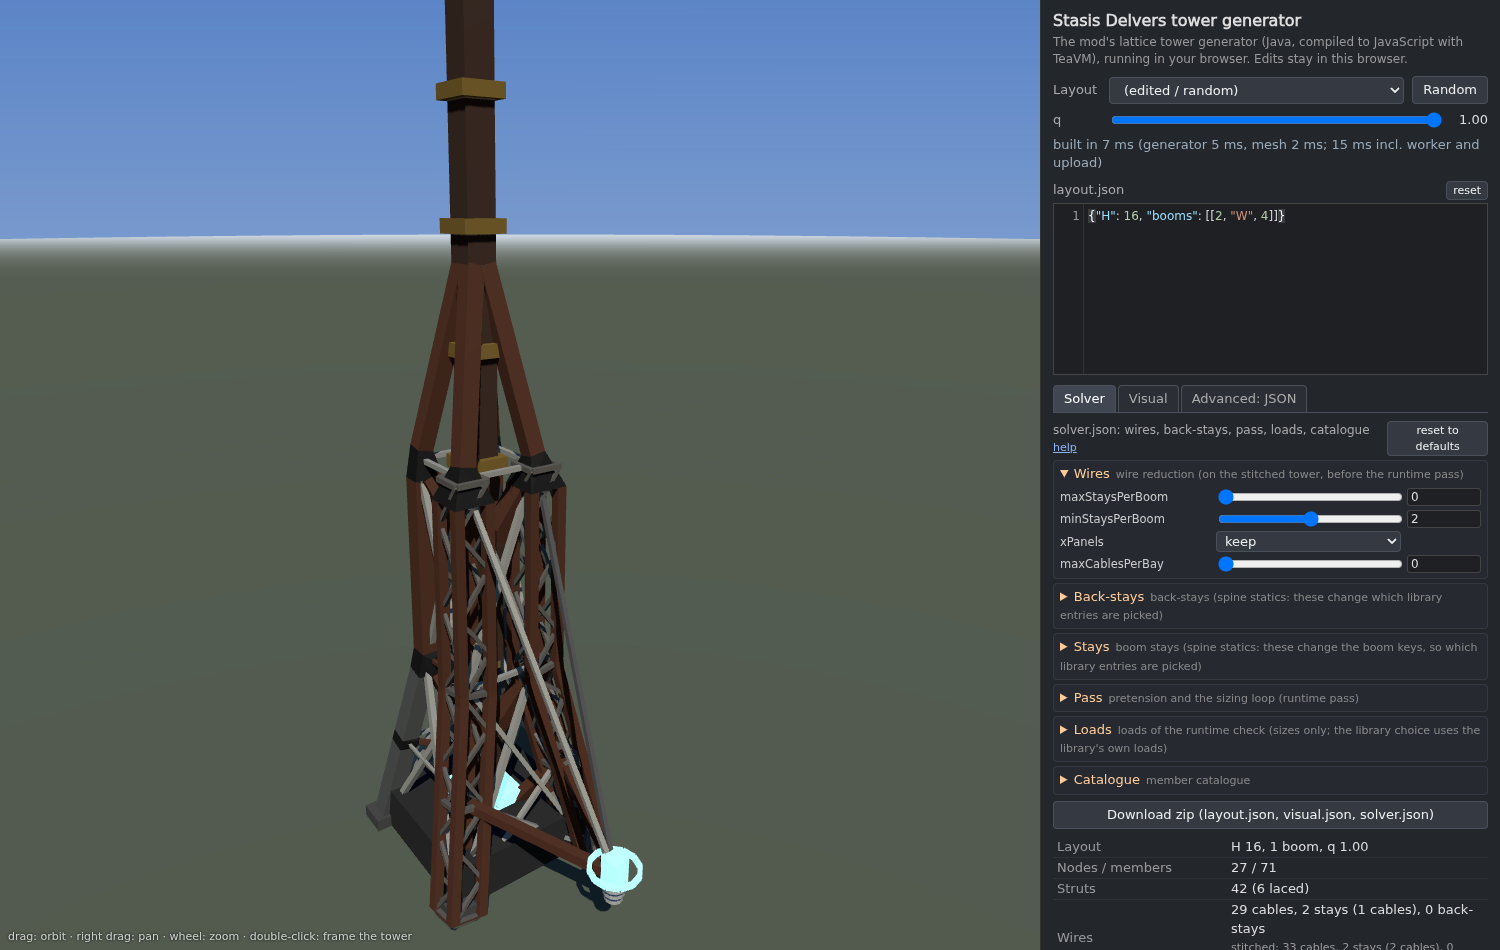
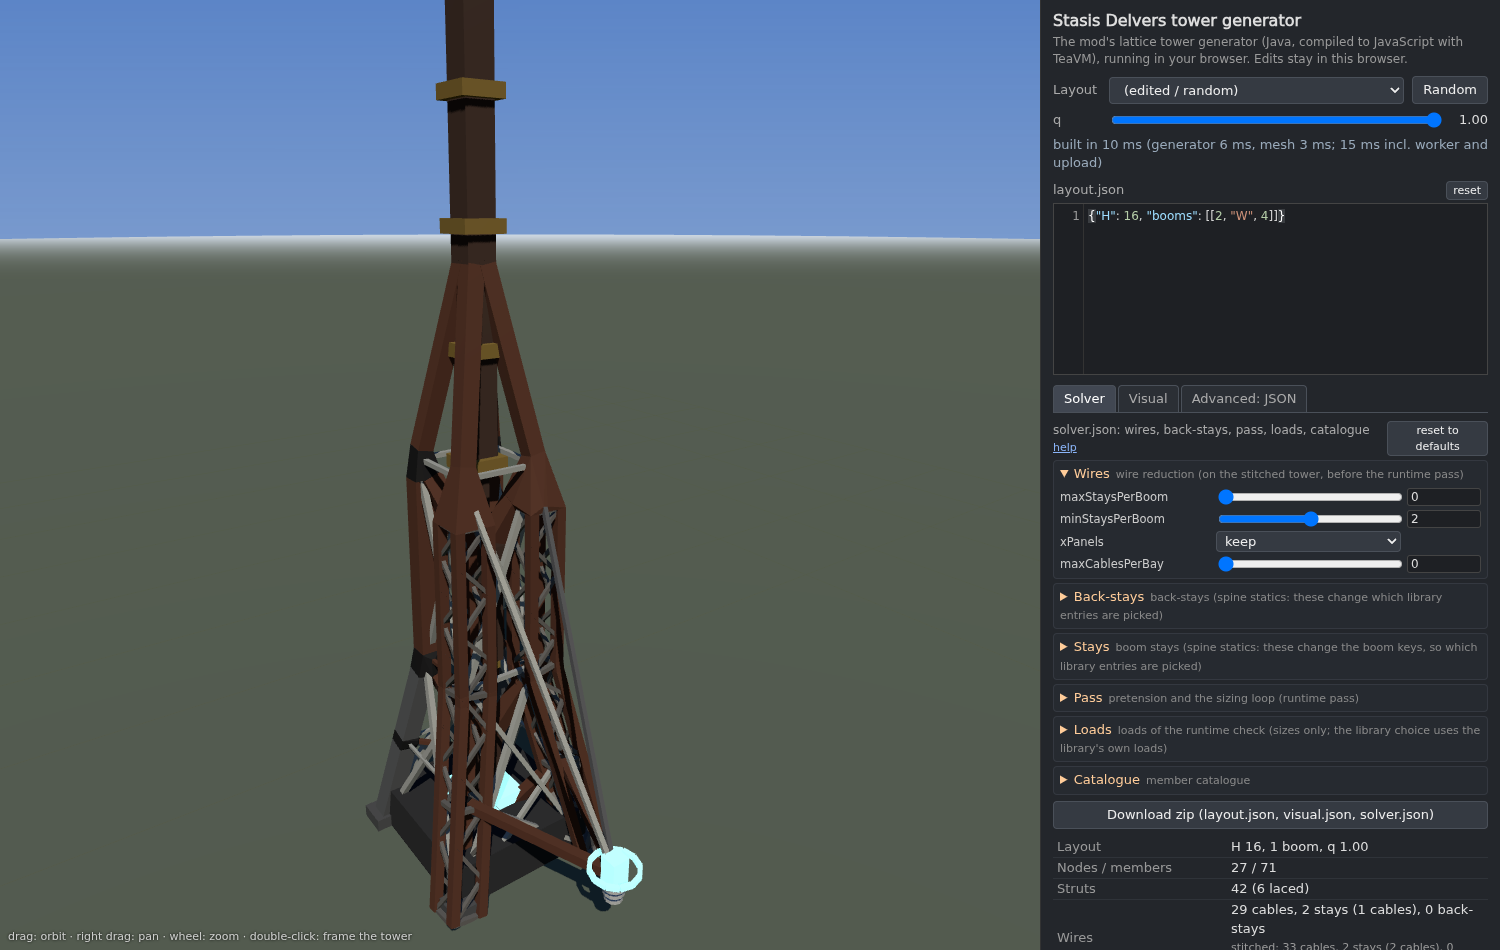
towergen mesh: laced members join branch nodes by their outer envelope (gusset joints), no chord-corner clumps
Every laced end that is not a chord-pair splice (Y / K / T, a laced member ending on another,
boom roots, free ends) takes part in the node joint by its outer section: setbacks on the
envelope, hub = hull of the envelope cut faces (a gusset block in the member's colour), chords
cut flat at the envelope setback, lacing and battens moved to the cut. Splices stay for a
continuing pair unless a wider laced member arrives (legs with laced bracing keep them).
- hull test over goldens + owner layouts + random counts spiky hub points (0 of 3.1 M)
- towerview shots branch / branchIn / nodeN / nodeNin; renders/contact_gusset_joints.png

Changed region(s): [[0.276, 0.4579, 0.3987, 0.7326]]

diff --git a/towergen/src/main/java/org/erisia/stasis/towergen/MeshBuilder.java b/towergen/src/main/java/org/erisia/stasis/towergen/MeshBuilder.java
@@ -55,6 +55,7 @@ public final class MeshBuilder {
         double e;              // the box starts at p + e d
         boolean sealed;
         double[][] pl, vt;     // prism planes / vertices (clearance), computed on demand
+        boolean envelope;      // a laced member's outer section (not drawn; its chords are cut at e)
 
         End(double[] p, double[] d, double[] sd, double a, double len, boolean cable, Part part) {
             this.p = p; this.d = d; this.sd = sd; this.a = a; this.len = len; this.cable = cable; this.part = part;
@@ -254,6 +255,26 @@ public final class MeshBuilder {
                 cont[2 * b2 + e2] = b;
             }
         }
+        // chord-pair splices only where the continuing pair is the main member at the node: no other laced member
+        // there is wider (a leg with laced bracing keeps its splices; the bracing joins the node's inner hull by its
+        // envelope, like solid bracing). Every other laced end (branch / Y / T where a wider member arrives, a laced
+        // member ending on another, boom roots, free ends) is an envelope end of the node joint (below).
+        double[] bOther = new double[2 * m];
+        for (int b = 0; b < m; b++) {
+            if (type[b] != LACED) continue;
+            for (int e = 0; e < 2; e++) {
+                int nd = e == 0 ? t.bi[b] : t.bj[b], b2 = cont[2 * b + e];
+                for (int b3 : at.get(nd)) if (type[b3] == LACED && b3 != b && b3 != b2) bOther[2 * b + e] = Math.max(bOther[2 * b + e], lg[b3].b);
+            }
+        }
+        for (int b = 0; b < m; b++) {
+            if (type[b] != LACED) continue;
+            for (int e = 0; e < 2; e++) {
+                int b2 = cont[2 * b + e];
+                if (b2 < 0) continue;
+                if (bOther[2 * b + e] > Math.min(lg[b].b, lg[b2].b) + 1e-9) { cont[2 * b + e] = -1; chordGrp[2 * b + e] = null; }
+            }
+        }
         for (int b = 0; b < m; b++) {
             if (type[b] != LACED) continue;
             lg[b].tap0 = cont[2 * b] < 0;
@@ -266,6 +287,7 @@ public final class MeshBuilder {
         List<Joint> chordHubs = new ArrayList<>();
         End[] mEnd = new End[2 * m];           // solid / pole / cable member ends
         End[][] cEnd = new End[2 * m][];       // laced chord ends
+        End[] envEnd = new End[2 * m];         // laced envelope ends (envelope joints)
         for (int b = 0; b < m; b++) {
             if (type[b] == SKIP) continue;
             for (int e = 0; e < 2; e++) {
@@ -280,11 +302,18 @@ public final class MeshBuilder {
                         joint(nodeHub, nd).env.add(new double[]{q[0], q[1], q[2], d[0], d[1], d[2], f[0][0], f[0][1], f[0][2],
                                 f[1][0], f[1][1], f[1][2], dw[b] / 2, len[b]});
                     }
-                    for (int k = 0; k < g.nc; k++) {
-                        End en = chordEnd(g, k, e, part[b]);
-                        cEnd[2 * b + e][k] = en;
-                        joint(nodeHub, nd).add(en);
-                    }
+                    // the member joins the node joint by its outer section: a square (frame of the axis) holding every
+                    // chord's section; its chords are cut where the envelope is
+                    double[] d = e == 0 ? ax[b] : V.mul(ax[b], -1);
+                    End env = new End(node(P, nd), d, ax[b], 0, len[b], false, part[b]);
+                    double aEnv = 0;
+                    for (int k = 0; k < g.nc; k++)
+                        aEnv = Math.max(aEnv, g.h * Math.max(Math.abs(V.dot(g.dir[k], env.u)), Math.abs(V.dot(g.dir[k], env.v))) + g.cw / 2);
+                    env = new End(node(P, nd), d, ax[b], aEnv, len[b], false, part[b]);
+                    env.envelope = true;
+                    envEnd[2 * b + e] = env;
+                    joint(nodeHub, nd).add(env);
+                    for (int k = 0; k < g.nc; k++) cEnd[2 * b + e][k] = chordEnd(g, k, e, part[b]);
                 } else {
                     double[] p = V.add(node(P, nd), off[b]);
                     End en = new End(p, e == 0 ? ax[b] : V.mul(ax[b], -1), ax[b], dw[b] / 2, len[b], type[b] == CABLE, part[b]);
@@ -326,6 +355,11 @@ public final class MeshBuilder {
         }
         for (int nd = 0; nd < n; nd++) if (nodeHub[nd] != null) solve(nodeHub[nd], sink);
         for (Joint hb : chordHubs) { solve(hb, sink); hb.part = hb.ends.get(0).part; }   // chord splices: a piece of chord
+        for (int k = 0; k < 2 * m; k++) {         // chords run straight to their envelope's cut
+            End env = envEnd[k];
+            if (env == null || !env.sealed) continue;
+            for (End ce : cEnd[k]) { ce.e = Math.min(env.e, 0.49 * ce.len); ce.sealed = true; }
+        }
 
         // --- members
         for (int b = 0; b < m; b++) {
@@ -583,7 +617,10 @@ public final class MeshBuilder {
             if (Math.abs(V.dot(en.d, w.d)) < 0.9986) through = false;
         }
         through |= pole;
-        jt.part = vp.jointMemberColour() || through ? w.part : Part.KNUCKLE;
+        boolean gusset = false;
+        for (End en : core) gusset |= en.envelope;
+        // hubs holding laced members are gusset blocks in the widest member's part
+        jt.part = vp.jointMemberColour() || through || gusset ? w.part : Part.KNUCKLE;
         if (sink != null) {
             JointInfo ji = new JointInfo();
             ji.hull = h;
@@ -764,15 +801,25 @@ public final class MeshBuilder {
         }
         double lw = Math.max(vp.lacingMinWidth(), vp.lacingWidthFrac() * cw);
         int npan = (int) Math.max(vp.lacingPanelsMin(), Math.min(vp.lacingPanelsMax(), Math.rint(g.L / Math.max(g.b * vp.lacingPanelPerWidth(), 0.3))));
+        // lacing and battens span the visible part: from the chords' cut at each end (gusset / splice hull face)
+        double tA = Math.min(0.45, cutFrac(end0, g)), tB = 1 - Math.min(0.45, cutFrac(end1, g));
         for (int fc = 0; fc < g.nc; fc++) {
             int oa = fc, ob = (fc + 1) % g.nc;
             for (int k = 0; k < npan; k++) {
-                double t0 = k / (double) npan, t1 = (k + 1) / (double) npan;
+                double t0 = tA + (tB - tA) * k / npan, t1 = tA + (tB - tA) * (k + 1) / npan;
                 mesh.beam(g.at(k % 2 == 0 ? oa : ob, t0), g.at(k % 2 == 0 ? ob : oa, t1), lw, Part.LACING);
             }
-            if (!skip0) mesh.beam(g.at(oa, 0), g.at(ob, 0), lw * vp.battenScale(), Part.LACING);
-            if (!skip1) mesh.beam(g.at(oa, 1), g.at(ob, 1), lw * vp.battenScale(), Part.LACING);
+            if (!skip0) mesh.beam(g.at(oa, tA), g.at(ob, tA), lw * vp.battenScale(), Part.LACING);
+            if (!skip1) mesh.beam(g.at(oa, tB), g.at(ob, tB), lw * vp.battenScale(), Part.LACING);
         }
+    }
+
+    /** Fraction of the member length cut off at one end (the smallest sealed chord cut; 0 if any chord is open). */
+    private static double cutFrac(End[] ends, Laced g) {
+        if (ends == null) return 0;
+        double f = 1e300;
+        for (End en : ends) { if (en == null || !en.sealed) return 0; f = Math.min(f, en.e / g.L); }
+        return f == 1e300 ? 0 : f;
     }
 
     /** Run-on at a bend from unit d1 to unit d2 for a square section of width w: (w/2) sqrt2 tan(theta/2). */

diff --git a/towergen/src/test/java/org/erisia/stasis/towergen/MeshTest.java b/towergen/src/test/java/org/erisia/stasis/towergen/MeshTest.java
@@ -102,7 +102,7 @@ class MeshTest {
     /**
      * Hull hubs: (1) every sealed member end (its cut face) lies inside its hull, so joints are closed; (2) no part of
      * a hub reaches beyond the union of its members' prisms (each run back through the node by its half-width) by
-     * more than 0.3 x the widest member there + 0.06 blocks (the fill between members): sampled at face centroids, edge
+     * more than 0.35 x the widest member there + 0.06 blocks (the fill between members; gusset blocks at K / Y nodes): sampled at face centroids, edge
      * midpoints and interior points of every hull face. Prints the measured worst case per layout.
      */
     @Test
@@ -110,11 +110,20 @@ class MeshTest {
         TowerGen g = new TowerGen(Library.shared());
         VisualParams vp = VisualParams.defaults();
         MeshBuilder mb = new MeshBuilder(g.c, vp);
-        double[][] bary = {{1 / 3.0, 1 / 3.0, 1 / 3.0}, {0.5, 0.5, 0}, {0, 0.5, 0.5}, {0.5, 0, 0.5}, {0.6, 0.2, 0.2},
+        double[][] bary = {{1, 0, 0}, {0, 1, 0}, {0, 0, 1}, {1 / 3.0, 1 / 3.0, 1 / 3.0}, {0.5, 0.5, 0}, {0, 0.5, 0.5}, {0.5, 0, 0.5}, {0.6, 0.2, 0.2},
                 {0.2, 0.6, 0.2}, {0.2, 0.2, 0.6}};
-        for (String nm : GOLDEN) {
+        java.util.LinkedHashMap<String, Layout> lays = new java.util.LinkedHashMap<>();
+        for (String nm : GOLDEN) lays.put(nm, Layout.read(java.nio.file.Path.of("layouts", nm + ".json")));
+        lays.put("H16W4@2", new Layout(16, List.of(new Layout.Boom(2, 2, 4))));
+        lays.put("H16W5@2", new Layout(16, List.of(new Layout.Boom(2, 2, 5))));
+        java.util.Random rng = new java.util.Random(99);
+        for (int k = 0; k < 25; k++) { Layout l = LayoutGen.randomBuildable(rng, g.c); lays.put("random" + k + " " + l, l); }
+        int spiky = 0, total = 0;
+        for (var le : lays.entrySet()) {
+            String nm = le.getKey();
             for (double q : new double[]{1.0, 0.3}) {
-                TowerGen.Result r = g.build(Layout.read(java.nio.file.Path.of("layouts", nm + ".json")), q);
+                TowerGen.Result r;
+                try { r = g.build(le.getValue(), q); } catch (RefusedException ex) { continue; }
                 List<MeshBuilder.JointInfo> js = new java.util.ArrayList<>();
                 mb.build(r.tower, r.analysis, js);
                 int hulls = 0, flat = 0, sealedEnds = 0;
@@ -136,8 +145,10 @@ class MeshTest {
                             for (int k = 0; k < 3; k++) for (int qq = 0; qq < 3; qq++) x[qq] += w[k] * h.xyz[3 * f[k] + qq];
                             double ex = 1e300;
                             for (double[] b : ji.boxes) ex = Math.min(ex, boxDist(b, x));
-                            double allow = 0.3 * ji.maxW + 0.06;
+                            double allow = 0.35 * ji.maxW + 0.06;
                             worst = Math.max(worst, ex);
+                            total++;
+                            if (ex > allow) spiky++;
                             if (ex / ji.maxW > worstRel && System.getProperty("meshDebug") != null) {
                                 System.out.println("DBGW " + nm + " q" + q + " x " + java.util.Arrays.toString(x) + " ex " + ex);
                                 for (double[] b : ji.boxes) System.out.println("DBGW box a " + b[12] + " len " + b[13] + " p " + b[0] + "," + b[1] + "," + b[2] + " d " + b[3] + "," + b[4] + "," + b[5]);
@@ -148,15 +159,18 @@ class MeshTest {
                                 for (double[] b : ji.boxes) System.out.println("DBG box " + java.util.Arrays.toString(b));
                                 for (int pi = 0; pi < h.n; pi++) System.out.println("DBG pt " + java.util.Arrays.toString(h.point(pi)));
                             }
-                            assertTrue(ex <= allow, nm + " q" + q + ": hub point " + java.util.Arrays.toString(x) + " is " + ex
+                            if (ex > allow) System.out.println("SPIKY " + nm + " q" + q + ": hub point " + java.util.Arrays.toString(x) + " is " + ex
                                     + " outside its members (max width " + ji.maxW + ")");
                         }
                     }
                 }
+                if (nm.startsWith("random")) continue;
                 System.out.printf("hull joints %s q%.1f: %d hulls, %d flat, %d sealed ends; worst excess %.4f blocks, %.3f x max width%n",
                         nm, q, hulls, flat, sealedEnds, worst, worstRel);
             }
         }
+        System.out.printf("hull joints: %d layouts x 2 q, %d hub points sampled (vertices, edge midpoints, face points), %d spiky%n", lays.size(), total, spiky);
+        assertEquals(0, spiky, "spiky hub points (beyond 0.35 x widest member + 0.06 outside the member envelopes)");
     }
 
     /** Mesh FNV hashes of the golden layouts (q 1, default params): compared with the web build's stats.meshHash. */
@@ -181,7 +195,8 @@ class MeshTest {
     /**
      * Laced members: chords run straight (every chord segment within 1 degree of the member axis, so no chord bends
      * inside a member) and inside the member's outer envelope; and every pair of laced members meeting at a node
-     * within 5 degrees of collinear is spliced (at least one of the two continues), never treated as two free ends. Goldens, the owner's
+     * within 5 degrees of collinear is spliced (at least one of the two continues) or, at a node with more than two laced ends, joins the gusset
+     * (envelope) joint; never two free ends. Goldens, the owner's
      * H16 W4/W5 boom-at-2 layouts and random layouts, q 1 and 0.3.
      */
     @Test
@@ -228,6 +243,8 @@ class MeshTest {
                         }
                     }
                 }
+                java.util.Map<Integer, Integer> nLaced = new java.util.HashMap<>();
+                for (MeshBuilder.LacedInfo x : li) { nLaced.merge(t.bi[x.member], 1, Integer::sum); nLaced.merge(t.bj[x.member], 1, Integer::sum); }
                 for (MeshBuilder.LacedInfo x : li) {
                     for (int e = 0; e < 2; e++) {
                         int nd = e == 0 ? t.bi[x.member] : t.bj[x.member];
@@ -240,7 +257,8 @@ class MeshTest {
                             int ycont = t.bi[y.member] == nd ? y.cont0 : y.cont1;
                             // at least one of the two continues (the other may be a third, overlapping member whose
                             // partner was taken by a more collinear one)
-                            if (c >= cos5) assertTrue(cont >= 0 || ycont >= 0, l + " q" + q + ": collinear laced members " + x.member + ", " + y.member + " at node " + nd + " not spliced");
+                            // (a pair is not spliced only where a wider laced member arrives: an envelope / gusset joint)
+                            if (c >= cos5) assertTrue(cont >= 0 || ycont >= 0 || nLaced.get(nd) > 2, l + " q" + q + ": collinear laced members " + x.member + ", " + y.member + " at node " + nd + " not spliced");
                             if (cont == y.member) { spliced++; maxBend = Math.max(maxBend, Math.toDegrees(Math.acos(Math.min(1, c)))); }
                         }
                     }

diff --git a/towerview/src/main/java/org/erisia/stasis/towerview/Main.java b/towerview/src/main/java/org/erisia/stasis/towerview/Main.java
@@ -28,7 +28,7 @@ import org.erisia.stasis.towergen.WireReduction;
 /**
  * towerview: standalone tower viewer.
  * <pre>
- *   towerview render LAYOUT.json [--q 1.0] [--out DIR] [--shots a215,a300,close,wide,legs] [--orbit N]
+ *   towerview render LAYOUT.json [--q 1.0] [--out DIR] [--shots a215,a300,close,wide,legs,nodeN,nodeNin] [--orbit N]
  *                    [--size 1280x720] [--ss 2] [--params visual.json] [--solver solver.json] [--name TAG]
  *                    [--lib library.json.gz]
  *   towerview view LAYOUT.json [--q 1.0] [--params visual.json] [--solver solver.json]   interactive window
@@ -153,7 +153,7 @@ public final class Main {
             double rl = Math.toRadians(215);
             out.put("legs", new Raster.Camera(new double[]{9 * Math.cos(rl), ym + 2, 9 * Math.sin(rl)}, new double[]{0, ym + 1, 0}, fov));
         }
-        jointCams(t, H, fov, out);
+        jointCams(t, H, fov, out, yb);
         return out;
     }
 
@@ -161,7 +161,7 @@ public final class Main {
      * Joint close-ups: "bjoint" a few blocks from an inner node of the first boom (about 40% out along it), "ljoint"
      * a few blocks outside a mast leg node with bracing near 0.3 H.
      */
-    static void jointCams(Stitch.Tower t, int H, double fov, Map<String, Raster.Camera> out) {
+    static void jointCams(Stitch.Tower t, int H, double fov, Map<String, Raster.Camera> out, double yb) {
         int n = t.n;
         int[] degBay = new int[n], degBoom0 = new int[n];
         boolean[] boomNode = new boolean[n];
@@ -214,6 +214,27 @@ public final class Main {
             if (s < best - 1e-9) { best = s; sp = i; }
         }
         if (sp >= 0) out.put("splice", jointCam(t.node(sp), 7.0, 1.5, 30, fov));
+        // "branch" / "branchIn": a node where laced members branch (3+ laced ends, or 2 bending > ~11 deg: Y / K / boom
+        // root), nearest the first boom level (the 0.3 H level without booms), from outside / inside
+        int[] nl = new int[n];
+        for (int b = 0; b < t.m; b++) if (t.kind[b] == 2) { nl[t.bi[b]]++; nl[t.bj[b]]++; }
+        int br = -1;
+        best = 1e30;
+        for (int i = 0; i < n; i++) {
+            if (nl[i] < 2) continue;
+            if (nl[i] == 2) {                         // two laced ends: a branch only if they bend by more than ~11 deg
+                int b1 = -1, b2 = -1;
+                for (int b = 0; b < t.m; b++) if (t.kind[b] == 2 && (t.bi[b] == i || t.bj[b] == i)) { if (b1 < 0) b1 = b; else b2 = b; }
+                double[] d1 = away(t, b1, i), d2 = away(t, b2, i);
+                if (d1[0] * d2[0] + d1[1] * d2[1] + d1[2] * d2[2] < -0.98) continue;
+            }
+            double s = Math.abs(t.P[3 * i + 1] - yb) + (t.P[3 * i] > 0 ? 0.5 : 0);   // nearest the first boom, west first
+            if (s < best - 1e-9) { best = s; br = i; }
+        }
+        if (br >= 0) {
+            out.put("branch", jointCam(t.node(br), 4.5, 1.2, 35, fov));
+            out.put("branchIn", jointCam(t.node(br), 3.0, 0.8, 160, fov));   // from inside the tower
+        }
     }
 
     /** Unit direction of member b away from its end node nd. */
@@ -263,6 +284,9 @@ public final class Main {
         for (String s : shots.split(",")) {
             if (s.isBlank()) continue;
             Raster.Camera cam = cams.get(s);
+            java.util.regex.Matcher nm = java.util.regex.Pattern.compile("node(\\d+)(in)?").matcher(s);
+            if (cam == null && nm.matches() && Integer.parseInt(nm.group(1)) < r.tower.n)    // close-up of one node
+                cam = jointCam(r.tower.node(Integer.parseInt(nm.group(1))), nm.group(2) != null ? 3.0 : 4.5, 1.0, nm.group(2) != null ? 160 : 35, vp.fovDeg());
             if (cam == null) { System.out.println("no camera " + s + " (have " + cams.keySet() + ")"); continue; }
             long t0 = System.nanoTime();
             BufferedImage img = ras.render(mesh, cam, s.startsWith("a") || s.equals("wide") ? cap : name + " q" + q + " " + s);

diff --git a/towergen/NOTES.md b/towergen/NOTES.md
@@ -123,6 +123,30 @@ Known limits:
 - Random (slowTest, 400 x 2 q, seed 7): 645 pass, 19 over the catalogue (now refused), 136 refused by the stay rule
   (was 769 pass / 31 over); no exceptions.
 
+## Laced members at branch nodes: envelope (gusset) joints (2026-10-13, owner report 2)
+- Report: H16 W4@2 / W5@2, lower west leg: a laced member ending at a node (Y: the laced leg ends where a solid leg
+  and a strut carry on) made a spiky clump: its chords went into the node hull one by one, so the hub was the hull
+  of scattered chord corners.
+- Fix (general, not a Y special case): every laced end that is not a chord-pair splice joins the node joint by its
+  **outer envelope** (a square in the axis frame holding all its chords' sections, i.e. b x b for 4 chords), as an
+  ordinary solid end: setbacks on the envelope against all neighbours (solid and laced envelopes), hull of the
+  envelope cut faces (a gusset block, in the widest member's colour rather than knuckle), and all its chords are cut
+  flat at the envelope's setback (straight, no bend; lacing and end battens move to the cut). Splices stay only for
+  the continuing pair when no wider laced member arrives at the node: a leg with laced bracing keeps its chord
+  splices, and the bracing joins the node's inner hull by its envelope, as solid bracing does (making every leg node
+  with laced bracing one envelope block turned H64max / H100 legs into solid slabs, so that variant was dropped).
+- Tests: `hullJointsClosedAndContained` now runs the goldens, both owner layouts and 25 random layouts at q 1 and
+  0.3, samples hull vertices, edge midpoints and face points, and asserts 0 "spiky" points (farther than 0.35 x the
+  widest member + 0.06 blocks outside every member envelope, laced envelopes included): 3.14 M points, 0 spiky. The
+  threshold went from 0.3 to 0.35 because K-node gussets fill the crotch between two wide laced diagonals (worst
+  0.64 blocks at a 1.92-wide H64max leg node). `lacedChordsStraightAndSpliced` accepts an unspliced collinear pair
+  only at a node with more than two laced ends. Random sweep (slowTest): 400 towers, 106683 hulls, all consistent.
+- Mesh time fell (fewer chord-level joints): H64max 14 -> 6 ms, H100 10 -> 5 ms (JVM); browser H64max 33 ms.
+- Renders: `renders/contact_gusset_joints.png` (1920 x 1800, before | after: H16 W4 node 18 outside / inside (the
+  Y), node 19 inside at q 0.3, H16 W4 west / east, H16 W5 west, H40r3 and H64max `branch`, H64max and H100 `close`).
+  towerview: shots `branch` / `branchIn` (a node where laced members branch, nearest the first boom) and `nodeN` /
+  `nodeNin` (close-up of node N from outside / inside).
+
 ## Laced members: straight chords, splices at every continuing node (2026-10-13, owner report)
 - Report: `{"H": 16, "booms": [[2, "W", 4]]}` (and W5) drew the west laced legs as spindles: chords converging to a
   point at every bay node and bowing out between, with kinked joints; the joint keys had no effect there.
